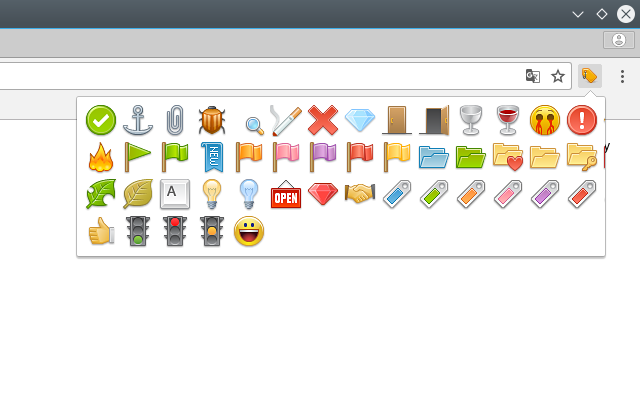
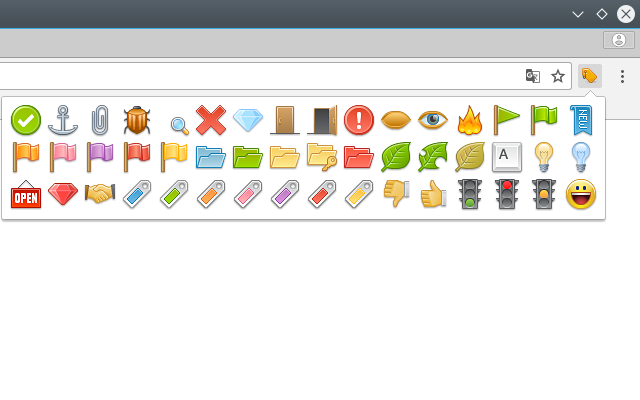
0.0.0.2

Changed region(s): [[0.0, 0.24, 0.9688, 0.66]]

diff --git a/icons.html b/icons.html
@@ -6,7 +6,9 @@
     <link rel="stylesheet" href="css/styles.css?v=1.0">
 </head>
 <body>
-    <div class="container" id="icons"></div>
+    <div id="wrapper">
+        <div class="container" id="icons"></div>
+    </div>
     <script src="/node_modules/utils4js/utils.js"></script>
     <script src="js/icons.js"></script>
 </body>

diff --git a/css/styles.css b/css/styles.css
@@ -19,4 +19,8 @@ https://habrahabr.ru/company/edison/blog/344878/
 
 
 
+#wrapper {
+    width: 587px;
+}
+
 img { cursor: pointer; }
